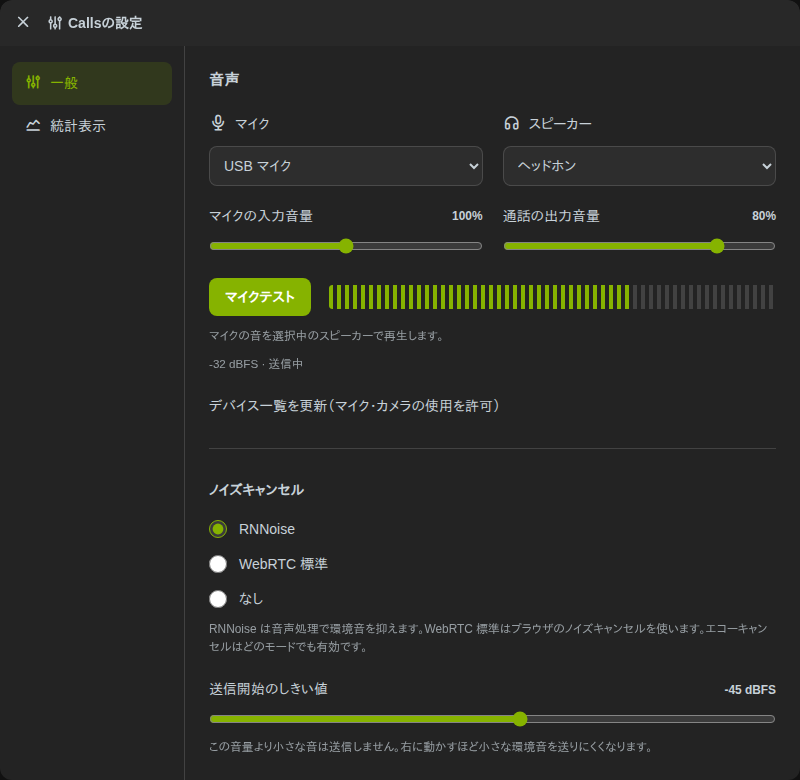
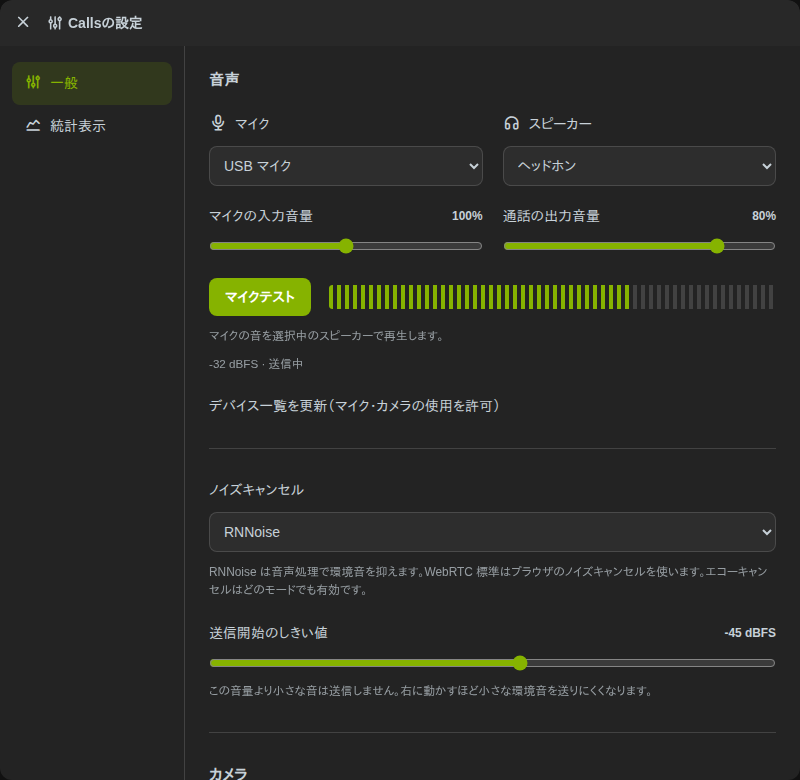
fix(calls): ノイズキャンセルをプルダウンで選択する

diff --git a/packages/frontend/src/components/MkCallsGeneralSettings.vue b/packages/frontend/src/components/MkCallsGeneralSettings.vue
@@ -27,13 +27,12 @@ SPDX-License-Identifier: AGPL-3.0-only
 		<button class="_button" :class="$style.refresh" :disabled="state.busy" @click="refreshDevices">{{ i18n.ts._calls.refreshDevices }}</button>
 	</section>
 	<section :class="$style.section">
-		<fieldset :class="$style.modes">
-			<legend>{{ i18n.ts._calls.noiseSuppressionMode }}</legend>
-			<label v-for="mode in modes" :key="mode.value" :class="$style.mode">
-				<input type="radio" :name="radioName" :checked="state.noiseSuppression === mode.value" :value="mode.value" :disabled="state.busy" @change="setNoiseSuppression(mode.value)">
-				<span>{{ mode.label }}</span>
-			</label>
-		</fieldset>
+		<label :class="$style.field">
+			<span>{{ i18n.ts._calls.noiseSuppressionMode }}</span>
+			<select :value="state.noiseSuppression" :class="$style.select" :disabled="state.busy" @change="setNoiseSuppression(($event.target as HTMLSelectElement).value as CallsNoiseSuppressionMode)">
+				<option v-for="mode in modes" :key="mode.value" :value="mode.value">{{ mode.label }}</option>
+			</select>
+		</label>
 		<p :class="$style.description">{{ i18n.ts._calls.noiseSuppressionDescription }}</p>
 		<label :class="$style.field">
 			<span>{{ i18n.ts._calls.inputSensitivity }} <strong>{{ state.inputSensitivity <= -100 ? i18n.ts._calls.inputGateDisabled : `${state.inputSensitivity} dBFS` }}</strong></span>
@@ -70,14 +69,13 @@ export type CallsGeneralSettingsProps = {
 </script>
 
 <script setup lang="ts">
-import { computed, useId } from 'vue';
+import { computed } from 'vue';
 import MkCallsMicrophoneTest from '@/components/MkCallsMicrophoneTest.vue';
 import MkCallsCameraPreview from '@/components/MkCallsCameraPreview.vue';
 import { i18n } from '@/i18n.js';
 
 const props = defineProps<CallsGeneralSettingsProps>();
 const state = computed(() => props.getSettings());
-const radioName = useId();
 const audioDeviceKinds = ['microphone', 'output'] as const;
 const modes = [
 	{ value: 'rnnoise' as const, label: i18n.ts._calls.rnnoiseMode },
@@ -107,8 +105,4 @@ function devices(kind: typeof audioDeviceKinds[number]): MediaDeviceInfo[] { ret
 .field input { width: 100%; margin: 0; accent-color: var(--MI_THEME-accent); }
 .select { width: 100%; min-width: 0; padding: 10px; border: 1px solid var(--MI_THEME-divider); border-radius: 8px; background: var(--MI_THEME-panel); color: var(--MI_THEME-fg); font: inherit; text-overflow: ellipsis; }
 .description { margin: -12px 0 0; font-size: 0.85em; line-height: 1.5; opacity: 0.7; }
-.modes { border: 0; padding: 0; margin: 0; display: flex; flex-direction: column; gap: 16px; }
-.modes legend { padding: 0; margin-bottom: 20px; font-weight: bold; }
-.mode { display: flex; align-items: center; gap: 12px; }
-.mode input { margin: 0; accent-color: var(--MI_THEME-accent); width: 18px; height: 18px; }
 </style>

diff --git a/packages/frontend/test/unit/calls-audio-settings.test.ts b/packages/frontend/test/unit/calls-audio-settings.test.ts
@@ -29,7 +29,7 @@ test('selects processing and threshold, shows the input meter, and disables chan
 	expect(setInputVolume).toHaveBeenCalledWith(150);
 	await fireEvent.update(view.getByRole('slider', { name: /Output volume/ }), '50');
 	expect(setOutputVolume).toHaveBeenCalledWith(50);
-	await fireEvent.click(view.getByRole('radio', { name: 'WebRTC' }));
+	await fireEvent.update(view.getByRole('combobox', { name: 'Noise cancellation' }), 'webrtc');
 	expect(setNoiseSuppression).toHaveBeenCalledWith('webrtc');
 	await fireEvent.update(view.getByRole('slider', { name: /Threshold/ }), '-35');
 	expect(setInputSensitivity).toHaveBeenCalledWith(-35);
@@ -37,11 +37,11 @@ test('selects processing and threshold, shows the input meter, and disables chan
 	expect(view.getByLabelText('Input level').getAttribute('aria-valuenow')).toBe('-32');
 	state.busy = true;
 	await nextTick();
-	expect((view.getByRole('radio', { name: 'WebRTC' }) as HTMLInputElement).disabled).toBe(true);
+	expect((view.getByRole('combobox', { name: 'Noise cancellation' }) as HTMLSelectElement).disabled).toBe(true);
 	expect((view.getByRole('slider', { name: /Threshold/ }) as HTMLInputElement).disabled).toBe(true);
 	await fireEvent.click(view.getByRole('button', { name: 'Statistics' }));
 	expect(view.getByText('Connection statistics')).toBeTruthy();
-	expect(view.queryByRole('radio', { name: 'WebRTC' })).toBeNull();
+	expect(view.queryByRole('combobox', { name: 'Noise cancellation' })).toBeNull();
 	await fireEvent.click(view.getByRole('button', { name: 'General' }));
 	expect(view.getByText('-35 dBFS')).toBeTruthy();
 });
